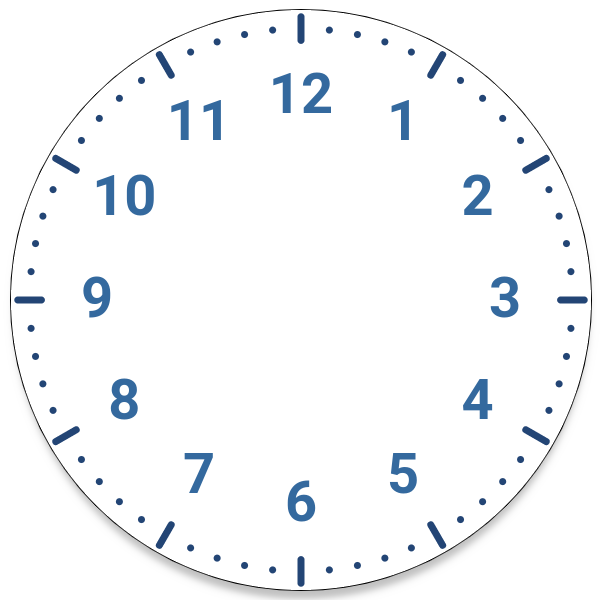
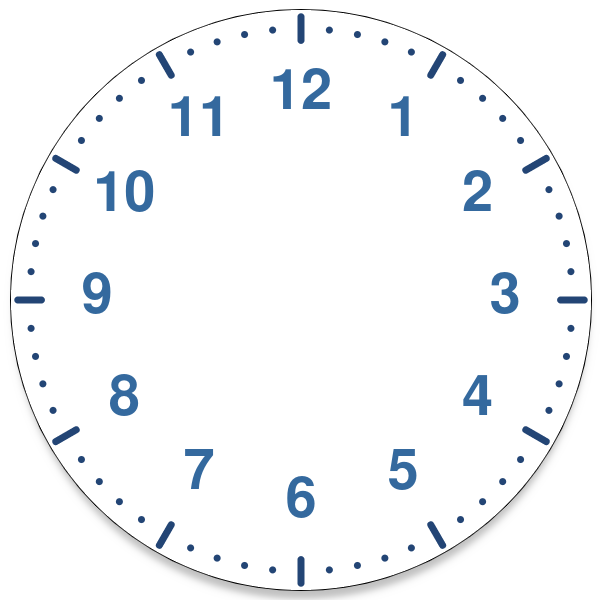
Migrate to numbus Sans font

diff --git a/Under Construction/Date and Time.app/Resources/widget_analogclock.py b/Under Construction/Date and Time.app/Resources/widget_analogclock.py
@@ -84,7 +84,7 @@ class AnalogClock(QWidget):
             self.bColor = QColor(120, 120, 120, 255)
 
             # color for second hand
-            self.sColor = QColor(120, 120, 120, 255)
+            self.sColor = QColor(160, 160, 160, 255)
 
             bg = QImage(os.path.join(
                 os.path.dirname(__file__),
@@ -121,7 +121,6 @@ class AnalogClock(QWidget):
         # scale the painter
         painter.scale(rec / 200, rec / 200)
 
-        # painter.drawImage(int(rec / 200) - int(rec / 2), int(rec / 200) - int(rec / 2), bg)
         # set current pen as no pen
         painter.setPen(QtCore.Qt.NoPen)
 
@@ -138,11 +137,12 @@ class AnalogClock(QWidget):
                             10, 10)
 
         painter.setPen(QPen(Qt.darkGray, 2, Qt.SolidLine))
-        painter.setFont(QFont('FreeMono', 20))
+        # painter.setFont(QFont('FreeMono', 20))
+        painter.setFont(QFont('Numbus Sans', 20))
         if QTime().hour() <= 0 <= 12:
-            painter.drawText(-15, 50, "AM")
+            painter.drawText(-20, 50, "AM")
         else:
-            painter.drawText(-15, 50, "PM")
+            painter.drawText(-20, 50, "PM")
         painter.end()
 
     def updateTime(self):
